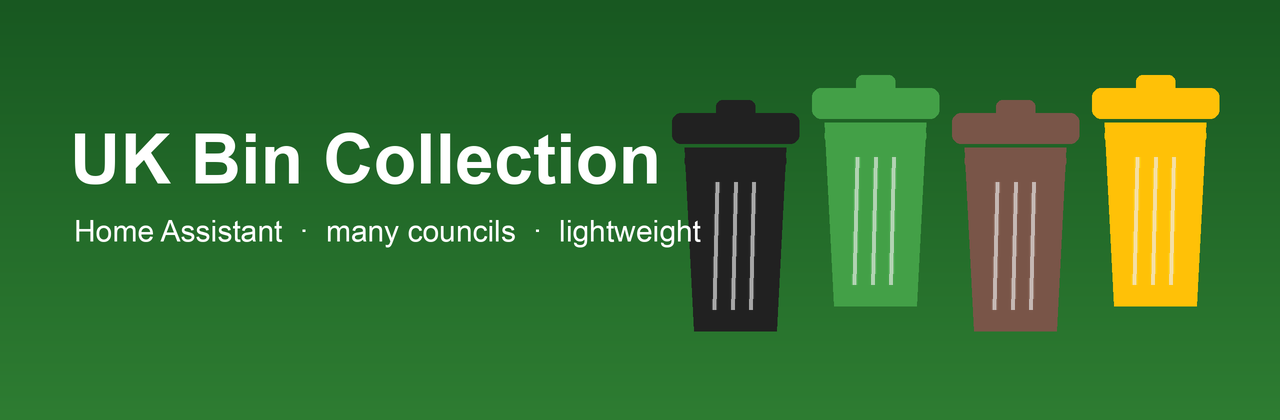
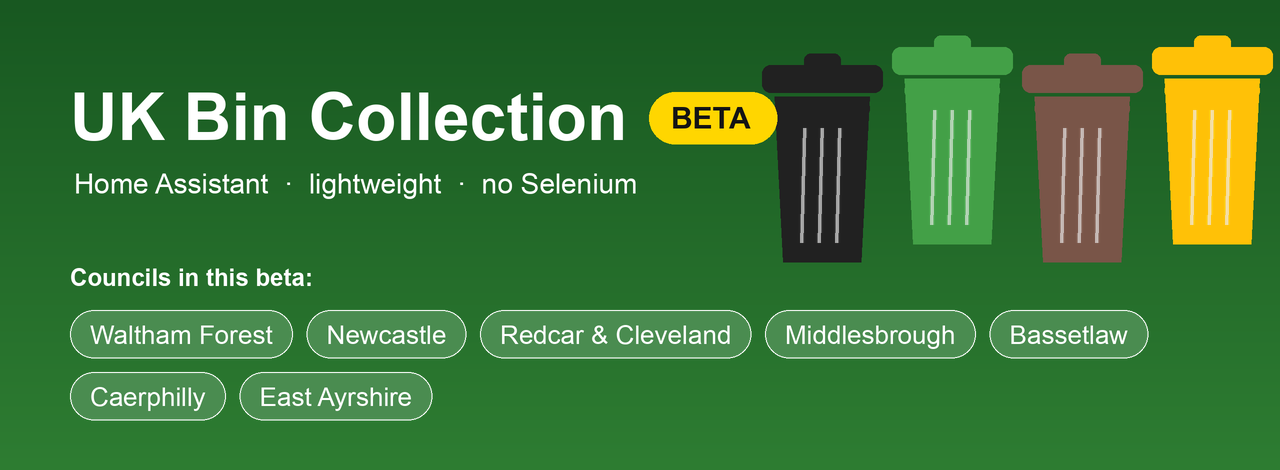
docs: new UK-wide cover image + council list (beta)
New cover art (UK Bin Collection · BETA) listing the councils covered,
and a beta note in the README. No functional change.

Claude-Session: https://claude.ai/code/session_01W8cWpQdnXwfeCSM9q4ez1X

diff --git a/README.md b/README.md
@@ -5,6 +5,8 @@
 <p align="center">
   A <b>lightweight</b> Home Assistant integration for <b>UK bin collection dates</b> —
   many councils, one integration, pure HTTP (no Selenium, no container).
+  <br/><b>Beta.</b> Councils supported so far: Waltham Forest, Newcastle upon Tyne,
+  Redcar &amp; Cleveland, Middlesbrough, Bassetlaw, Caerphilly, East Ayrshire.
 </p>
 
 <p align="center">
